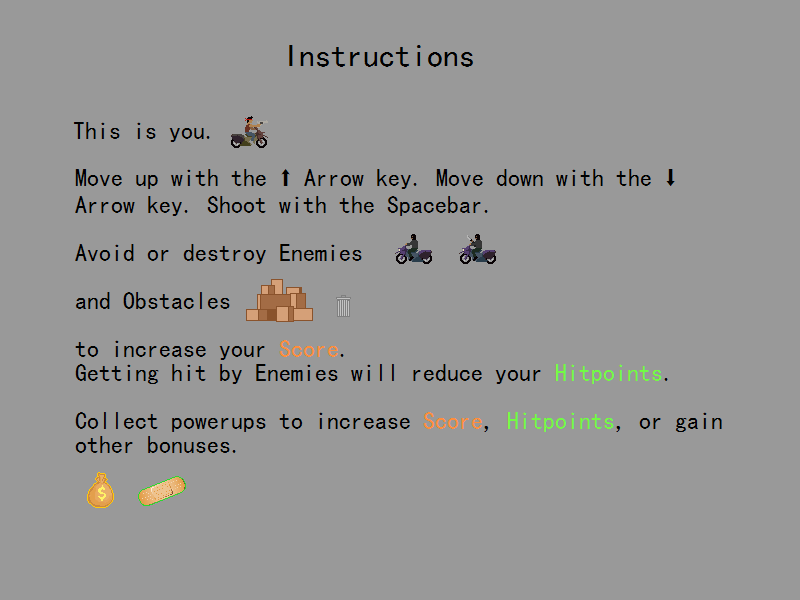
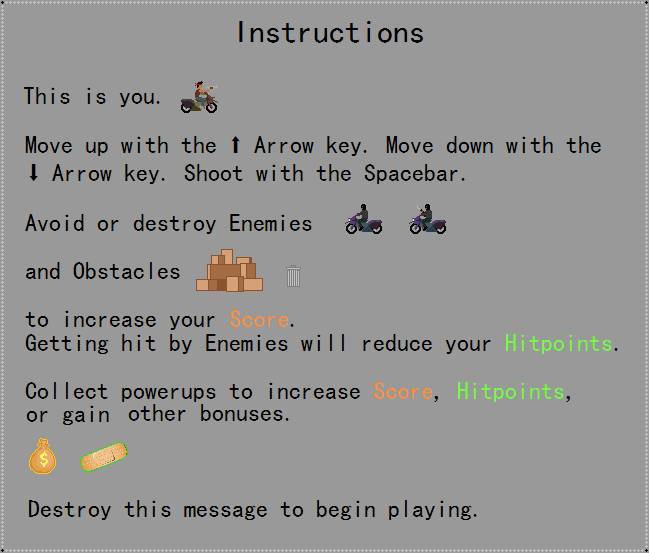
New menu implementation (much simpler)

diff --git a/menu.cpp b/menu.cpp
@@ -1,39 +1,9 @@
 #include "menu.h"
-#include "game.h"
-#include <QDebug>
-#include <QKeyEvent>
 
-extern Game *game;
-
-Menu::Menu(QWidget *parent)
+Menu::Menu()
 {
-    Q_UNUSED(parent);
-
-    // create a scene
-    QGraphicsScene *scene = new QGraphicsScene();
-
-    // add a view
-    QGraphicsView *view = new QGraphicsView(scene);
-    // can also use view->setScene(scene);
-    view->setHorizontalScrollBarPolicy(Qt::ScrollBarAlwaysOff);
-    view->setVerticalScrollBarPolicy(Qt::ScrollBarAlwaysOff);
-    view->show();
-    view->setFixedSize(800 ,600);
-    scene->setSceneRect(0, 0, 800, 600);
-
-    //make the background
-    view->setBackgroundBrush(QBrush(QImage(":/sprites/menu.png")));
-
-    this->setFlag(QGraphicsItem::ItemIsFocusable);
-    this->setFocus();
-}
-
-void Menu::keyPressEvent(QKeyEvent *event)
-{
-    if (event->key() == Qt::Key_Return) {
-        qDebug() << "Successfully exited the menu";
-        //Game = new game();
-        delete this;
-    }
-    qDebug() << "Failed to exit the menu";
+    setPos(75, 30);
+    setPixmap(QPixmap(":/sprites/menu.png"));
+    damage_value = 0;
+    point_value = 0;
 }

diff --git a/game.cpp b/game.cpp
@@ -21,7 +21,7 @@ Game::Game(QWidget *parent)
     scene->setSceneRect(0, 0, 800, 600);
 
     //make the background
-    view->setBackgroundBrush(QBrush(QImage(":/sprites/menu.png")));
+    view->setBackgroundBrush(QBrush(QImage(":/sprites/Background.png")));
 
     //create the player
     player = new Player();
@@ -42,6 +42,10 @@ Game::Game(QWidget *parent)
     scene->addItem(player_hp);
     //connect hp to ending the game
     connect(player_hp, SIGNAL(dead()), this, SLOT(end()));
+
+    //draw the menu
+    menu = new Menu();
+    scene->addItem(menu);
 
     //start spawning enemies
     QTimer *timer = new QTimer();

diff --git a/menu.h b/menu.h
@@ -1,16 +1,13 @@
 #ifndef MENU_H
 #define MENU_H
 
-#include <QGraphicsWidget>
-#include <QGraphicsScene>
-#include <QGraphicsView>
+#include "enemy.h"
 
-class Menu : public QGraphicsWidget
+class Menu : public Enemy
 {
     Q_OBJECT
 public:
-    Menu(QWidget *parent = 0);
-    void keyPressEvent(QKeyEvent *event);
+    Menu();
 };
 
 #endif // MENU_H

diff --git a/main.cpp b/main.cpp
@@ -1,17 +1,15 @@
 #include <QApplication>
 #include "game.h"
-#include "menu.h"
 
 //declare game as a global object
 Game *game;
-Menu *menu;
 
 int main(int argc, char *argv[])
 {
     QApplication a(argc, argv);
 
-    menu = new Menu();
-    menu->show();
+    game = new Game();
+    game->show();
 
     return a.exec();
 }

diff --git a/enemy.cpp b/enemy.cpp
@@ -67,6 +67,11 @@ void Enemy::check_collisions()
             alive = false;
             return;
         }
+        else if (typeid(*(colliding_items[i])) == typeid(Menu))
+        {
+            alive = false;
+            return;
+        }
     }
 }
 
